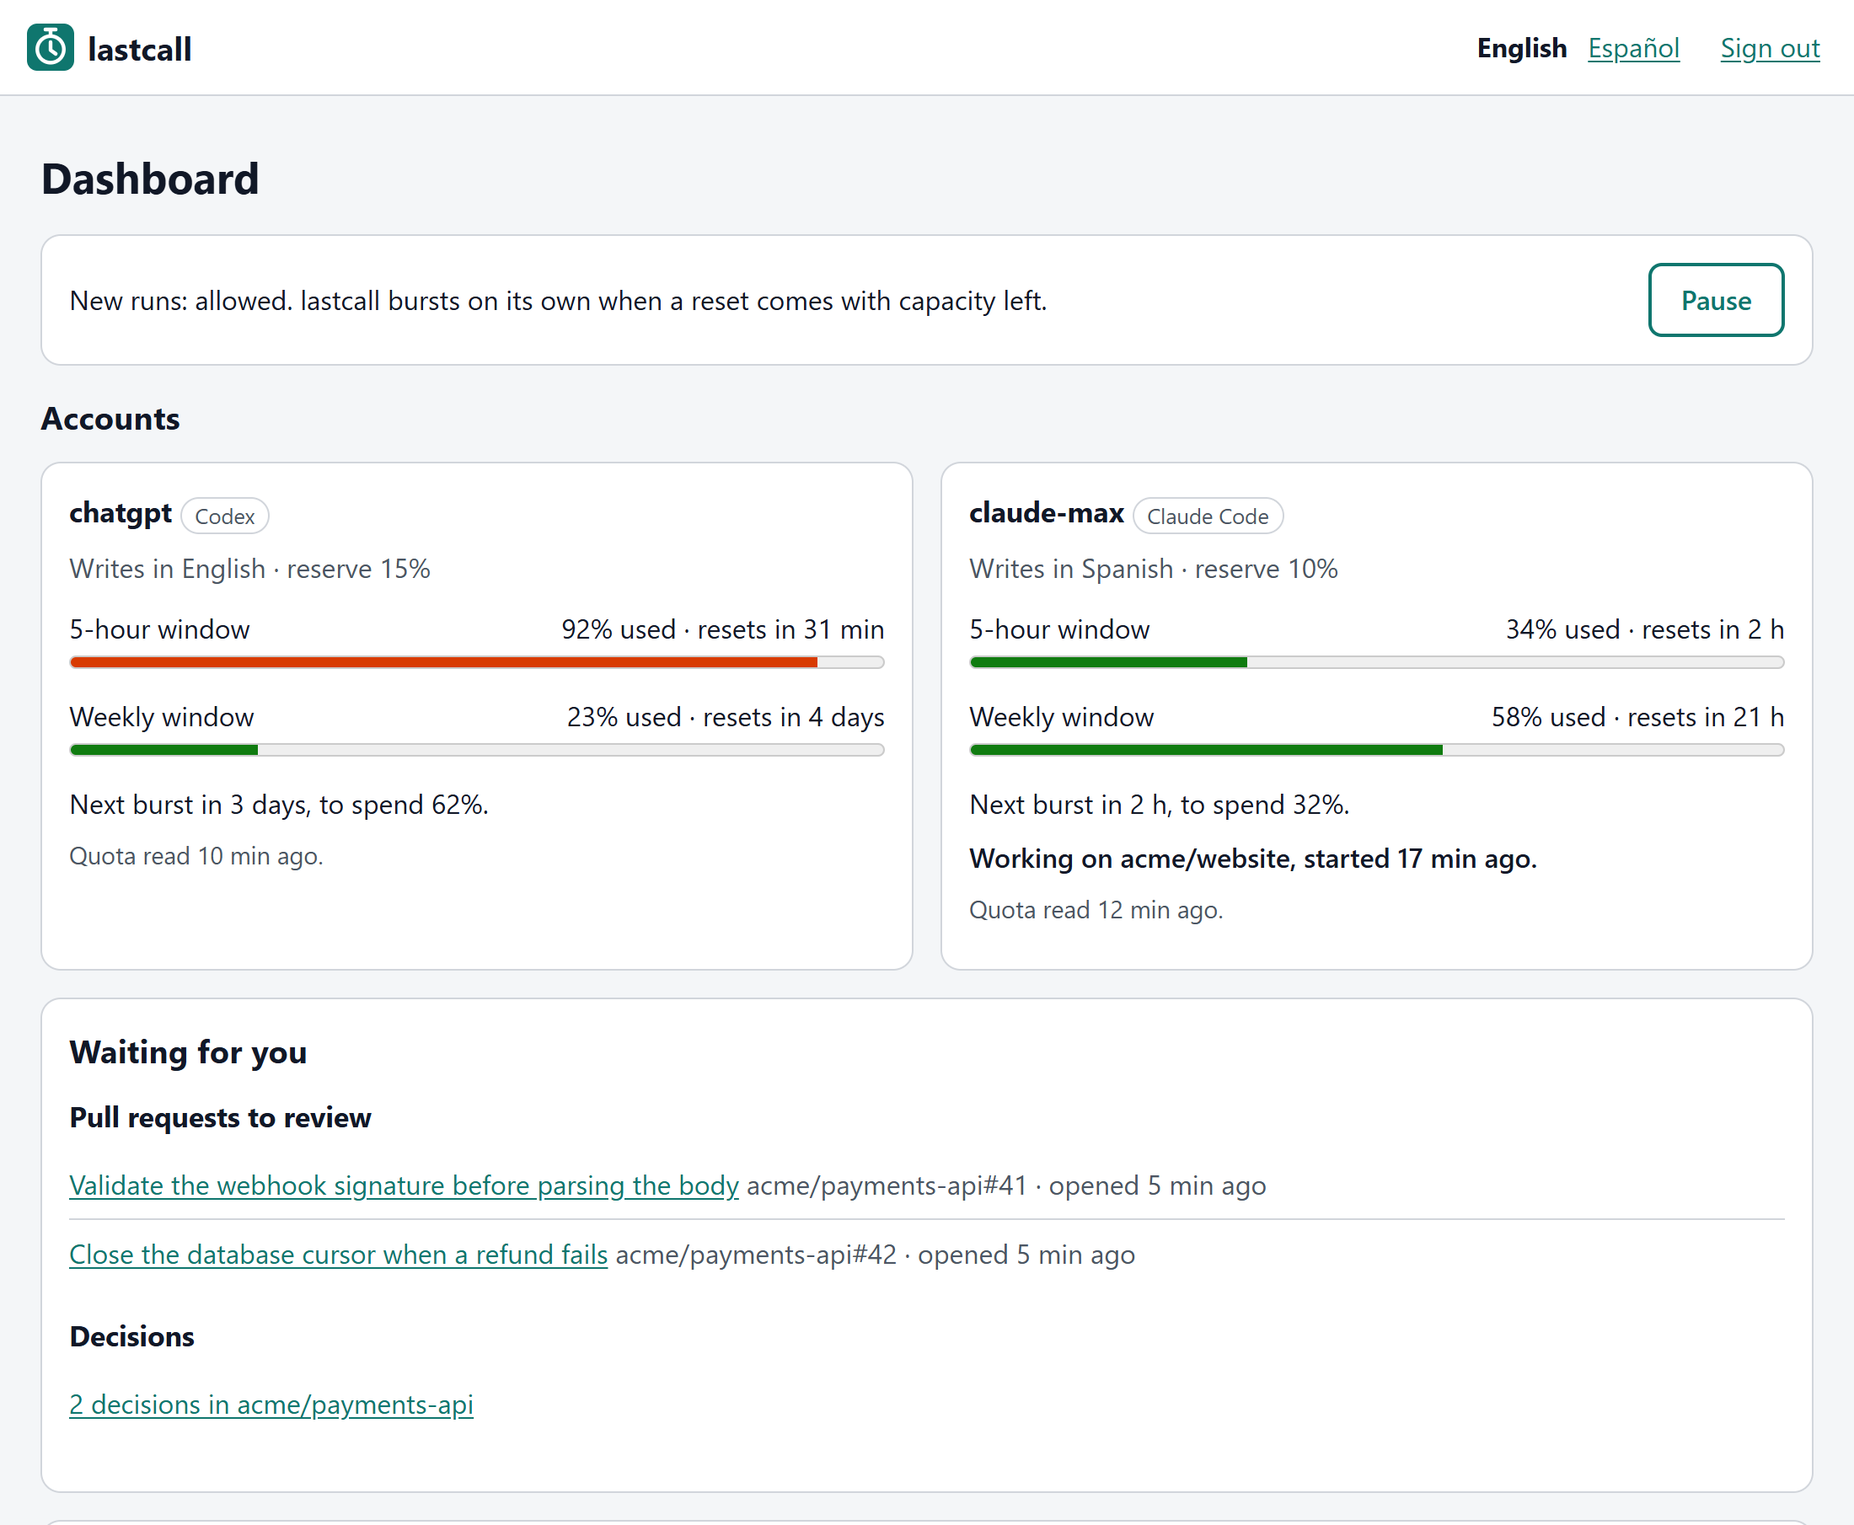
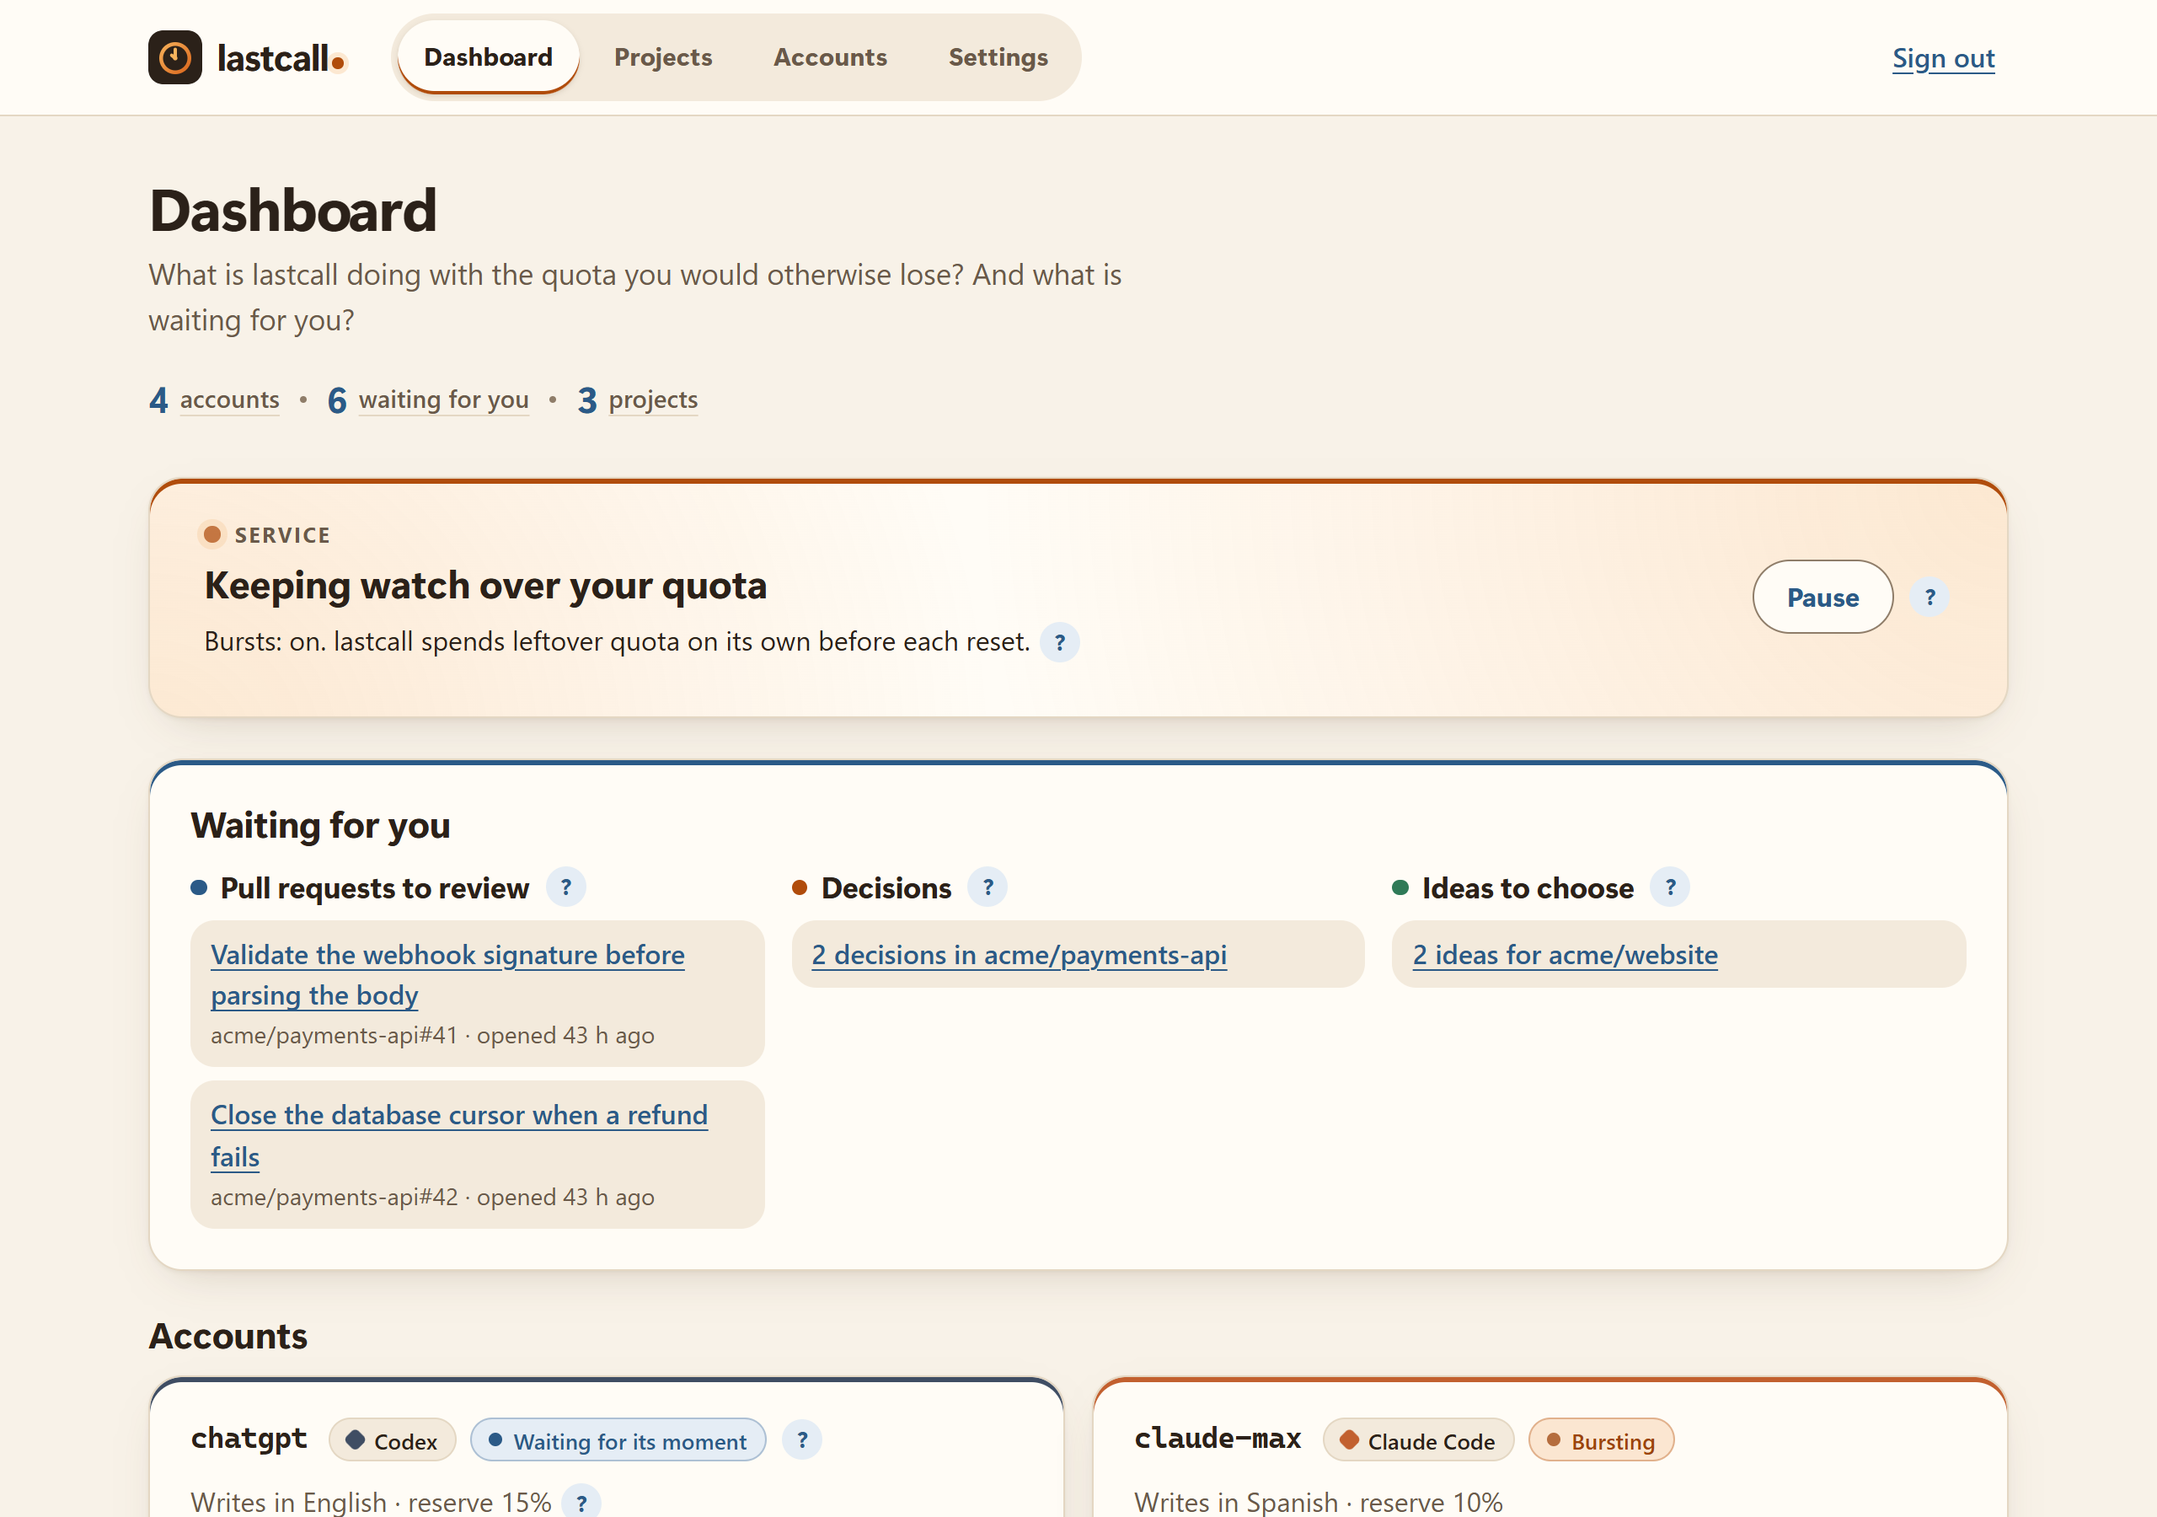
Tests and docs for the redesign, plus the inspector's fixes (notice clearance, setup help, label rows)

diff --git a/src/lastcall/web/static/style.css b/src/lastcall/web/static/style.css
@@ -307,6 +307,7 @@ footer.bottom {
 .grid { display: grid; grid-template-columns: minmax(0, 1fr); align-items: start; gap: var(--s4); margin: 0 0 var(--s5); }
 
 :target { scroll-margin-top: var(--s5); }
+main:has(> .notice.done) :target { scroll-margin-top: 6.5rem; }
 .card:target, section:target { outline: 3px solid color-mix(in srgb, var(--ember) 55%, transparent); outline-offset: 3px; }
 
 /* ---------- Status hero (dashboard) ---------- */
@@ -717,8 +718,9 @@ tbody th { font-weight: 650; }
 
 /* ---------- Forms ---------- */
 label { display: block; margin-bottom: var(--s1); font-weight: 600; }
-.label-row { display: flex; flex-wrap: wrap; align-items: center; gap: 0 var(--s1); margin-bottom: var(--s1); }
-.label-row label, .label-row legend { margin: 0; }
+.label-row { display: flex; flex-wrap: nowrap; align-items: flex-start; gap: 0 var(--s1); margin-bottom: var(--s1); }
+.label-row label, .label-row legend { min-width: 0; margin: 0; }
+.label-row .help { flex: none; margin-top: .1rem; }
 .field { min-width: 0; }
 
 input, select, textarea {
@@ -1148,9 +1150,6 @@ fieldset.has-help > legend { margin: 0; }
    ================================================================================================================ */
 .toc li { margin: 0; }
 fieldset > .hint { margin: 0; }
-@media (min-width: 48rem) {
-  .toc { top: 5rem; }
-}
 
 /* ---------- Help: the "?" and its bubble ---------- */
 .help {
@@ -1263,6 +1262,7 @@ fieldset > .hint { margin: 0; }
   .destinations > li { grid-template-columns: minmax(0, 1fr) auto; }
   .settings-layout { grid-template-columns: 13.5rem minmax(0, 1fr); align-items: start; gap: var(--s5); }
   .toc { position: sticky; top: var(--s4); padding: var(--s4); }
+  main:has(> .notice.done) .toc { top: 5rem; }
   .toc ul { display: grid; gap: 2px; }
   .toc a { display: flex; min-height: 44px; background: none; border: 0; border-radius: var(--r-sm); }
   .toc a:hover { background: var(--surface); }

diff --git a/src/lastcall/web/templates/github.html b/src/lastcall/web/templates/github.html
@@ -28,7 +28,7 @@
   <div class="form-actions"><a class="button" href="{{ app.install_url }}">{{ t("web.github.install") }}</a>{{ help(hb, "github-install", t("web.github.install"), ["github.install"]) }}</div>
   <p class="hint">{{ t("web.github.install_hint") }}</p>
   {%- elif action %}
-  <p>{{ confirm }}{{ help(hb, "github-permissions", t("web.help.github.permissions.title"), ["github.permissions"]) }}</p>
+  <div class="line"><p>{{ confirm }}</p>{{ help(hb, "github-permissions", t("web.help.github.permissions.title"), ["github.permissions"]) }}</div>
   <div class="form-actions">
     <form method="post" action="{{ action }}">
       <input type="hidden" name="manifest" value="{{ manifest }}">

diff --git a/src/lastcall/web/templates/setup.html b/src/lastcall/web/templates/setup.html
@@ -7,7 +7,7 @@
   <h1>{{ t("web.setup.title") }}</h1>
   <div class="line"><p class="lede">{{ t("web.setup.intro") }}</p>{{ help(hb, "setup-why", t("web.help.setup.why.title"), ["setup.why"]) }}</div>
   {%- if error %}
-  <div class="alert-row"><p class="notice error" role="alert">{{ error }}</p>{{ help(hb, "login-locked", t("web.help.login.locked.title"), ["login.locked"]) }}</div>
+  <div class="alert-row"><p class="notice error" role="alert">{{ error }}</p>{% if counted %}{{ help(hb, "login-locked", t("web.help.login.locked.title"), ["login.locked"]) }}{% endif %}</div>
   {%- endif %}
   <form method="post" class="stack">
     <ol class="steps sign-steps">

diff --git a/tests/test_web.py b/tests/test_web.py
@@ -252,14 +252,28 @@ def test_dashboard_in_spanish_and_english(web: Web) -> None:
     assert "Getting started" in page  # no GitHub App yet
 
 
+def test_a_reverted_finding_shows_in_the_findings_summary(web: Web) -> None:
+    seed(web.store)
+    web.store.x("UPDATE findings SET status = 'reverted' WHERE fid = 'B1'")
+    web.set_up()
+    web.store.set_setting("heartbeat", str(NOW))
+    page = web.client.get("/", headers={"Accept-Language": "es"}).get_data(as_text=True)
+    assert "1 por decidir · 1 revertido · 1 descartado" in page
+    page = web.client.get("/").get_data(as_text=True)
+    assert "1 to decide · 1 reverted · 1 discarded" in page
+
+
 def test_dashboard_says_when_the_service_is_not_running(web: Web) -> None:
     web.set_up()
     page = web.client.get("/").get_data(as_text=True)
     assert "The service is not running" in page and "Last seen" not in page
+    assert "docker compose restart lastcall" in page and 'popovertarget="help-common-terminal"' in page
     web.store.set_setting("heartbeat", str(NOW - 3 * HOUR))
-    assert "Last seen 3 h ago." in web.client.get("/").get_data(as_text=True)
+    page = web.client.get("/").get_data(as_text=True)
+    assert "Last seen 3 h ago." in page and "docker compose restart lastcall" in page
     web.store.set_setting("heartbeat", str(NOW - 60))
-    assert "The service is not running" not in web.client.get("/").get_data(as_text=True)
+    page = web.client.get("/").get_data(as_text=True)
+    assert "The service is not running" not in page and "docker compose restart lastcall" not in page
 
 
 def test_links_that_are_not_https_are_inert(web: Web) -> None:
@@ -556,14 +570,15 @@ def test_accounts_page(tmp_path: Path) -> None:
 
     for name in ("max", "broken"):
         response = web.client.post(f"/accounts/{name}/quota", data={"csrf": csrf}, headers=SITE)
-        assert response.headers["Location"] == "/accounts?done=reading"
+        assert response.headers["Location"] == f"/accounts?done=reading#account-{name}"
     assert [a.id for a in readings] == ["max", "broken"]
     assert web.store.last_reading("max") is not None
     page = web.client.get("/accounts").get_data(as_text=True)
     assert "The last reading failed: not signed in" in page and "12% used" in page
 
     form = {"csrf": csrf, "language": "Spanish", "reserve": "15"}
-    assert web.client.post("/accounts/max", data=form, headers=SITE).status_code == 302
+    saved = web.client.post("/accounts/max", data=form, headers=SITE)
+    assert saved.status_code == 302 and saved.headers["Location"] == "/accounts?done=saved#account-max"
     row = next(a for a in web.store.accounts() if a.id == "max")
     assert (row.enabled, row.language, row.reserve_pct) == (False, "Spanish", 15)
     assert web.client.post("/accounts/max", data={**form, "reserve": "95"}, headers=SITE).status_code == 400
@@ -689,7 +704,7 @@ def test_without_the_sandbox_the_quota_cannot_be_read(web: Web) -> None:
     web.set_up()
     web.store.add_account("max", "claude-code")
     page = web.client.get("/accounts").get_data(as_text=True)
-    assert "Read the quota now" not in page
+    assert "Read the quota now" not in page and "help-accounts-check" not in page  # no button, no bubble for it
     response = web.client.post("/accounts/max/quota", data={"csrf": web.csrf()}, headers=SITE)
     assert response.status_code == 503 and "The sandbox is not available here" in response.get_data(as_text=True)
 
@@ -1249,8 +1264,23 @@ def test_setup_and_login_explain_themselves(web: Web) -> None:
     for topic in ("login-session", "login-reset"):
         assert f'popovertarget="help-{topic}"' in page
     assert "help-login-locked" not in page
+    assert 'hreflang="es">Español</a>' in page  # and so does the signed-out header of /login
     wrong = other.post("/login", data={"password": "wrong"}, headers=SITE).get_data(as_text=True)
     assert 'popovertarget="help-login-locked"' in wrong
+
+
+def test_setup_explains_locking_only_when_the_attempt_counted(tmp_path: Path) -> None:
+    web = Web(tmp_path)
+    page = web.client.get("/setup").get_data(as_text=True)
+    form = {"code": web.code(), "password": PASSWORD, "repeat": PASSWORD + "x"}
+    mismatch = web.client.post("/setup", data=form, headers=SITE)
+    text = mismatch.get_data(as_text=True)
+    assert mismatch.status_code == 400 and "not the same" in text and "help-login-locked" not in text
+    short = web.client.post("/setup", data={**form, "password": "short", "repeat": "short"}, headers=SITE)
+    assert short.status_code == 400 and "help-login-locked" not in short.get_data(as_text=True)
+    assert "help-login-locked" not in page
+    wrong = web.client.post("/setup", data={**form, "code": "WRNG-CODE"}, headers=SITE)
+    assert wrong.status_code == 400 and 'popovertarget="help-login-locked"' in wrong.get_data(as_text=True)
 
 
 def test_the_error_page_leads_back_and_explains_its_cause(tmp_path: Path) -> None:

diff --git a/src/lastcall/web/__init__.py b/src/lastcall/web/__init__.py
@@ -214,10 +214,10 @@ def create_app(
         if request.method == "GET":
             return page("setup.html", minimum=auth.MIN_LENGTH)
         if message := locked():
-            return page("setup.html", 429, minimum=auth.MIN_LENGTH, error=message)
+            return page("setup.html", 429, minimum=auth.MIN_LENGTH, error=message, counted=True)
         if not setup_code.check(request.form.get("code", "")):
             throttle.fail(address())
-            return page("setup.html", 400, minimum=auth.MIN_LENGTH, error=t("web.setup.bad_code"))
+            return page("setup.html", 400, minimum=auth.MIN_LENGTH, error=t("web.setup.bad_code"), counted=True)
         password = request.form.get("password", "")
         wrong = auth.password_problem(password, request.form.get("repeat", ""))
         if wrong:
@@ -946,7 +946,7 @@ def create_app(
                 schedule=schedule,
                 models=account.models,
             )
-            return redirect(url_for("accounts_page", done="saved"))
+            return redirect(url_for("accounts_page", done="saved") + f"#account-{row.id}")
         try:
             reserve = float(form.get("reserve", ""))
         except ValueError:
@@ -955,7 +955,7 @@ def create_app(
         if not 0 <= reserve <= 90 or policy not in ("before-reset", "manual"):
             return problem(400, "web.error.form")
         store.update_account(row.id, enabled=enabled, language=language, reserve_pct=reserve, policy=policy)
-        return redirect(url_for("accounts_page", done="saved"))
+        return redirect(url_for("accounts_page", done="saved") + f"#account-{row.id}")
 
     @app.post("/accounts/<account_id>/tiers")
     @signed_in
@@ -1008,7 +1008,7 @@ def create_app(
                 log(f"{account.id}: no quota reading: {e}")
 
         later(work)
-        return redirect(url_for("accounts_page", done="reading"))
+        return redirect(url_for("accounts_page", done="reading") + f"#account-{row.id}")
 
     @app.get("/language/<code>")
     def set_language(code: str) -> ResponseReturnValue:

diff --git a/DESIGN.md b/DESIGN.md
@@ -725,18 +725,32 @@ The web UI is server-rendered HTML that works without JavaScript. It is accessib
 installable as a PWA, in English and Spanish from the start. Pages: dashboard (quota per account, next burst, what
 is running, pull requests to review), projects, runs, decisions, statistics, accounts and settings.
 
+The look is one warm design in a light and a dark scheme: ivory paper or warm charcoal, an ember accent for time and
+bursts, dusk blue for actions. Each card has a 3 px edge along its top, following its rounded corners, whose colour
+says something: the engine of an account, the kind of a notice, whether a project is on and
+whether the service is running, paused or down. Nothing loads from outside (no web fonts, no images as data), so the
+content security policy stays strict.
+
+The language is chosen in Settings, under Language, and in the header while signed out; until then it is the
+browser's. A "?" next to a label, a heading or a button opens a short bubble that explains what is confusing on that
+spot: it is the HTML `popover` attribute, so it needs no script. The bubbles of a page are also listed at its end
+under "Help on this page", for browsers without `popover`. A "?" shows only when its spot does (no tracker, no "?" for
+it), once per page for what repeats, and its text says only what the code does.
+
 It is a Flask application served by waitress, inside the service's process (`lastcall serve`), or alone
 (`lastcall web`). The texts come from the same catalogs as what lastcall publishes (`lastcall/locales`); the language
 is the browser's, until the owner picks one. So far it has the sign-in, the GitHub App page (the manifest flow, whose
 page alone may post a form to github.com), the accounts page (add a subscription, with the exact login command for
 it and a quota reading on demand to check the login; an API key, with its provider, model, monthly budget and
 policy; or a local model with its schedule; each form shows its steps, with links to where keys and model names
-come from), the dashboard (with pause and resume, and a notice when the service stops
-writing its heartbeat) and the projects page: each project's settings (merge on approve, the watch after the merge
+come from), the dashboard (with pause and resume, and a notice with the command to restart it
+when the service stops writing its heartbeat) and the projects page: each project's settings (merge on approve, the watch after the merge
 and tests and dependencies too among them), an audit, tests, upgrades or an improvement on demand, adding a repository by its address, and the suggestions, which the
 service reads from GitHub every 6 hours and the owner can read again at any time. Pause holds the bursts only: an
 audit or an improvement that the owner orders still starts, on the free account with the most quota left before its
-reset. The settings page holds the connection to an error tracker (Sentry or GlitchTip: the address, the
+reset, and the dashboard says so. While paused, or while the service is not running, no account card says it is
+bursting. A form that saves returns to its own card or section (`#project-owner--name`, `#account-id`, `#runs`,
+`#notify`), under the notice. The settings page holds the connection to an error tracker (Sentry or GlitchTip: the address, the
 organization and a read-only token, saved only when one request with them gets through), the container logs (the
 host's containers, each with its project or the one lastcall suggests, and the label that works as well), the logs
 in Loki (the connection, the label that names the sources, and the project of each, with suggestions), and the

diff --git a/README.md b/README.md
@@ -48,7 +48,7 @@ also spend an API key with a monthly budget, or a local model at the hours you c
   before any paid usage. An API key spends its monthly budget at the pace of the month, and a local model works at
   the hours of its schedule.
 - 🖥 **Shows you everything.** A dashboard in English and Spanish: what is left of every quota, the next burst, the
-  pull requests to review and the decisions waiting for you.
+  pull requests to review and the decisions waiting for you. A "?" next to anything unclear explains it.
 - 🔔 **Tells you.** A notification when a pull request opens, a decision waits, an audit fails or an account needs
   you: Telegram, ntfy, Discord, Slack, email and many more, through Apprise.
 
@@ -163,8 +163,8 @@ docker compose logs lastcall        # Web UI setup code: XXXX-XXXX
   want: from Sentry or GlitchTip, your containers' logs or Loki (see *Your project's settings* below).
 
 That is all. When a reset comes with capacity left, lastcall bursts on its own, and the dashboard shows what it
-does. Pause it from the dashboard at any time, or start an audit or an improvement plan yourself from the Projects
-page.
+does. Pause it from the dashboard at any time: Pause holds the bursts only, so an audit or an improvement plan that you
+start yourself from the Projects page still runs. Choose the language of the pages in Settings.
 
 The web UI listens only on this machine. To open it from elsewhere, put a reverse proxy with HTTPS in front of it.
 Then add `LASTCALL_TRUST_PROXY=1` to a `.env` file next to `compose.yaml`, so that lastcall reads the client's
